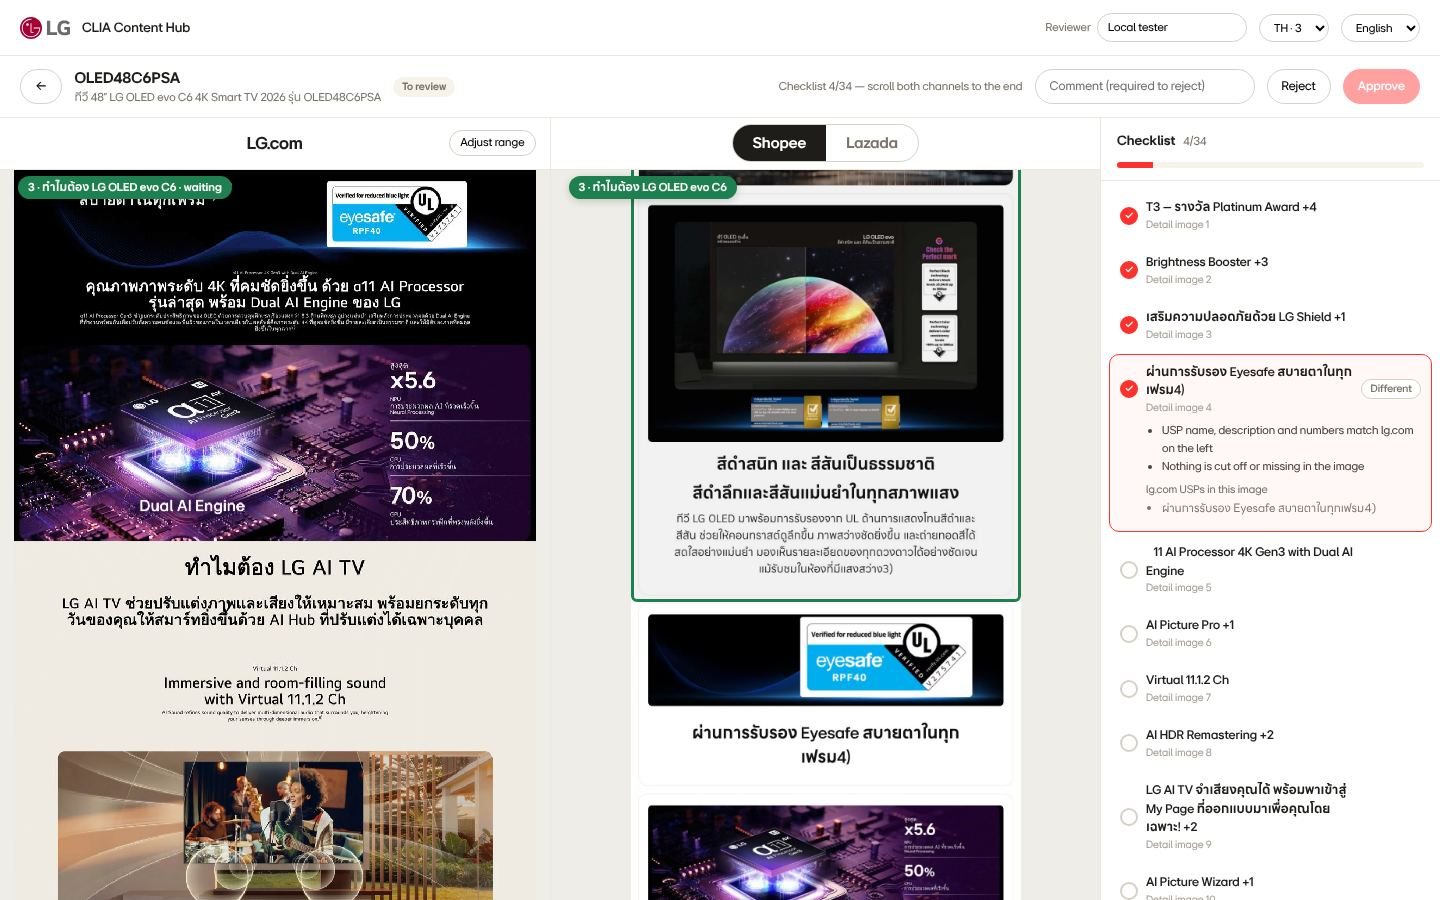
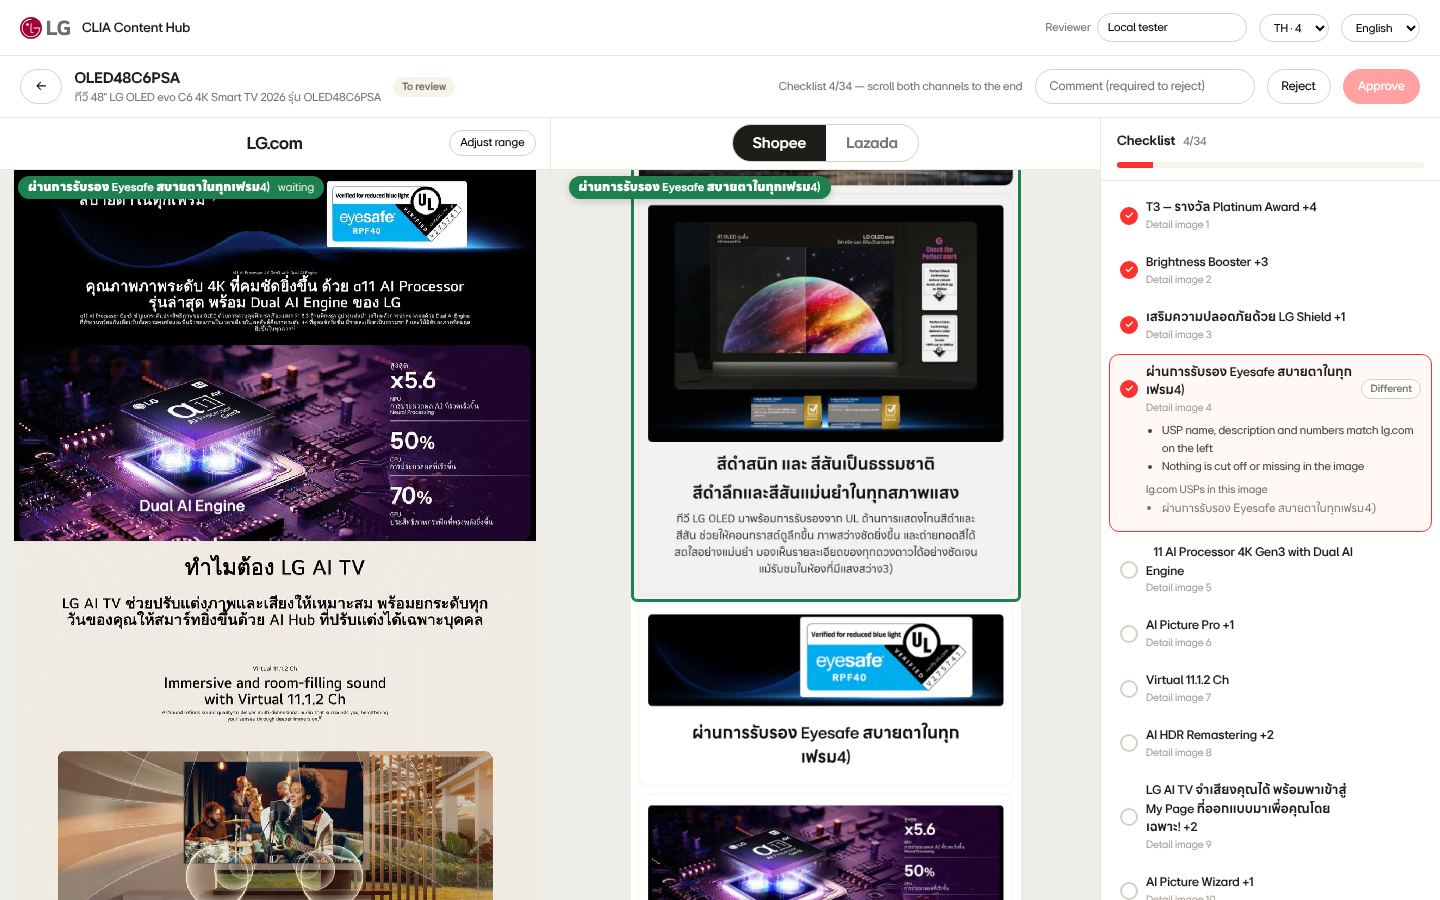
검토 화면: 같은 영역 이름표 = 체크리스트 항목 이름 그대로 · 미리 준비는 전부(캡처·이미지·요약)
- 초록 이름표에서 「섹션 n」·번호를 빼고, 오른쪽 체크리스트 항목 이름과 똑같이 (지금 항목이 그 구간 안이면 그 항목)
  기다림 · 없음은 이름 옆에 작은 글씨로
- 미리 준비 기본값: lg.com 캡처 · 상세 이미지 완성본 · PDP 요약까지 — 누르면 바로 보이게
  REVIEW_PREWARM_MODE=existing 이면 크롤 데이터와 이미 있는 요약·캡처만으로 (빈 것은 사람이 열 때 채움)
- 확인 스크립트: 양쪽 이름표가 같고 체크리스트 항목 이름과 같은지

Claude-Session: https://claude.ai/code/session_01Qc8KZ9fFX6kBVHrq9Tv6ME

Changed region(s): [[0.0, 0.1867, 0.25, 0.2489], [0.4062, 0.1867, 0.5938, 0.2489]]

diff --git a/review.js b/review.js
@@ -60,6 +60,9 @@ const CONC = 2;
 const PREWARM = process.env.REVIEW_PREWARM !== '0';
 const PREWARM_COUNTRIES = new Set(String(process.env.REVIEW_PREWARM_COUNTRIES || 'th,sg').split(',').map((x) => x.trim().toLowerCase()).filter(Boolean));
 const BG_CONC = Math.max(1, Math.min(CONC, parseInt(process.env.REVIEW_PREWARM_CONC, 10) || 1));
+// 기본은 전부 준비 — lg.com 캡처 · 상세 이미지 · PDP 요약까지 (검토 화면에서 누르면 바로 보이게, 2026-11-24 사용자 결정).
+//   REVIEW_PREWARM_MODE=existing 이면 크롤 데이터와 이미 있는 요약·캡처만으로 (AI 요약 · Firecrawl 캡처를 새로 만들지 않음 — 빈 것은 사람이 열 때 채움)
+const PREWARM_EXISTING_ONLY = process.env.REVIEW_PREWARM_MODE === 'existing';
 
 async function post(p, body, timeoutMs) {
   const r = await fetch(LOCAL() + p, { method: 'POST', headers: { 'Content-Type': 'application/json' }, body: JSON.stringify(body), signal: AbortSignal.timeout(timeoutMs) });
@@ -84,10 +87,11 @@ async function sliceManifest(hash) {
 }
 
 /** lg.com 전체 화면 캡처 — 있으면 그것, 없으면(또는 recapture) 캡처하고 기다린다 (최대 4분) */
-async function fullshot(url, recapture, step) {
+async function fullshot(url, recapture, step, existingOnly = false) {
   const q = '/api/v1/fullshot?url=' + encodeURIComponent(url);
   let st = await getJ(q);
   if (st.status === 'ready' && !recapture) return st;
+  if (existingOnly && st.status !== 'pending') return st;   // 미리 준비: 있는 캡처만 (새로 찍지 않는다)
   if (st.status !== 'pending') {
     step('fullshot');
     // recapture: 있는 캡처도 다시 찍는다 (지연 로드가 덜 찍힌 캡처 — 새 캡처가 성공해야 바뀐다)
@@ -110,7 +114,9 @@ function runPrep(input) {
   });
 }
 
-async function prepare(slug, ch, { recapture = false } = {}) {
+// existingOnly (미리 준비): 크롤 데이터와 이미 있는 것만으로 — PDP 요약(AI)·lg.com 캡처(Firecrawl)를 새로 만들지 않는다.
+//   빠진 것은 사람이 그 제품을 열 때 채운다 (화면이 force 로 다시 준비 → 아래 existingOnly=false)
+async function prepare(slug, ch, { recapture = false, existingOnly = false } = {}) {
   const key = `${slug}|${ch}`, job = jobs.get(key);
   const step = (s) => { job.step = s; };
   const sum = cr.productSummary(slug);
@@ -131,7 +137,10 @@ async function prepare(slug, ch, { recapture = false } = {}) {
   let sm = null, summaryErr = '';
   if (isTh(sum.url)) {
     step('summary');
-    sm = await post('/api/v1/pdp-summary', { url: sum.url }, 7 * 60 * 1000).catch((e) => { summaryErr = String(e.message).slice(0, 200); return null; });
+    sm = await post('/api/v1/pdp-summary', { url: sum.url, cachedOnly: existingOnly }, 7 * 60 * 1000).catch((e) => {
+      if (!(existingOnly && /no summary yet/.test(e.message))) summaryErr = String(e.message).slice(0, 200);
+      return null;
+    });
   }
   let shopeeN = slices.length, shopeeChars = 0;
   if (ch === 'shopee') {   // bulk-jobs.contentFor 와 같은 자르기: 앞 12장, 요약 + 주소가 3,000자를 넘으면 뒤에서부터 뺀다
@@ -176,12 +185,13 @@ async function prepare(slug, ch, { recapture = false } = {}) {
   step('fullshot-check');
   let fsErr = '', st = null;
   const shoot = async (re) => {
-    try { st = await fullshot(sum.url, re, step); fsErr = ''; } catch (e) { fsErr = String(e.message).slice(0, 200); }
+    try { st = await fullshot(sum.url, re, step, existingOnly && !re); fsErr = ''; } catch (e) { fsErr = String(e.message).slice(0, 200); }
+    if (st && st.status === 'none') fsErr = existingOnly ? 'not captured yet' : 'no capture';
     if (st && st.status === 'error') fsErr = String(st.error || 'capture failed').slice(0, 200);
   };
   await shoot(recapture);
   let { shotPath, a } = await analyze(st, true);
-  if (thin(a) && !recapture) {   // 덜 찍혔으면 한 번 다시 캡처하고 다시 본다
+  if (thin(a) && !recapture && !existingOnly) {   // 덜 찍혔으면 한 번 다시 캡처하고 다시 본다
     console.log(`[review] ${slug}: lg.com 캡처가 덜 찍힘 (PDP ${a.shot.bottom - a.shot.top}px / 상세 이미지 ${sliceTotal}px) → 다시 캡처`);
     await shoot(true);
     ({ shotPath, a } = await analyze(st, false));
@@ -192,6 +202,8 @@ async function prepare(slug, ch, { recapture = false } = {}) {
     slices: slices.map(({ src, w, h }) => ({ src, w, h })), images_loaded: man.images_loaded || sl.images_loaded || '',
     usps: a.usps, sliceUsps: a.sliceUsps, secs: a.secs, kind: a.kind, lead: a.lead, align: a.align || null, alignErr: a.alignErr || '',
     sum: ch === 'lazada' && sm && sm.html ? sm.html : '', sumText: ch === 'shopee' && sm && sm.text ? sm.text.trim() : '', summaryErr,
+    // 미리 준비에서 빈 것 — 화면이 제품을 열 때 채운다
+    missing: [...(isTh(sum.url) && !sm && !summaryErr ? ['summary'] : []), ...(!a.shot ? ['fullshot'] : [])],
     shopeeN, shopeeChars,
     shot: a.shot ? { key: st.key, src: `/media/fullshot/${st.key}.jpg`, bytes: fs.statSync(shotPath).size, ...a.shot } : null, shotErr: a.shot ? '' : (fsErr || 'no capture'),
   };
@@ -222,7 +234,7 @@ function enqueue(slug, ch, opts = {}, bg = false) {
   if (j && j.state === 'pending') {
     // 미리 준비 차례를 기다리던 것을 사람이 열면 → 사람 차례로 (맨 앞)
     const q = queue.findIndex((x) => x.slug === slug && x.ch === ch);
-    if (!bg && q >= 0 && queue[q].bg) { const [it] = queue.splice(q, 1); it.bg = false; it.opts = { ...it.opts, ...opts }; queue.unshift(it); j.bg = false; pump(); }
+    if (!bg && q >= 0 && queue[q].bg) { const [it] = queue.splice(q, 1); it.bg = false; it.opts = { ...it.opts, ...opts, existingOnly: false }; queue.unshift(it); j.bg = false; pump(); }
     return j;
   }
   const nj = { state: 'pending', step: 'queued', at: Date.now(), bg };
@@ -243,7 +255,7 @@ function prewarm() {
       const j = jobs.get(`${p.slug}|${ch}`);
       if (j && (j.state === 'pending' || (j.state === 'error' && Date.now() - j.at < 6 * 3600 * 1000))) continue;
       const { state } = prepState(p.slug, ch, p);
-      if (state === 'none' || state === 'stale' || state === 'error') { enqueue(p.slug, ch, {}, true); n++; }
+      if (state === 'none' || state === 'stale' || state === 'error') { enqueue(p.slug, ch, { existingOnly: PREWARM_EXISTING_ONLY }, true); n++; }
     }
   } catch (e) { console.warn('[review] 미리 준비 목록 실패', e.message); }
   if (n) console.log(`[review] 미리 준비 ${n}개 차례에 넣음 (대기 ${queue.length} · 동시 ${BG_CONC})`);
@@ -255,7 +267,8 @@ if (PREWARM) {
   setInterval(prewarm, 10 * 60 * 1000).unref();
 }
 function queueStats() {
-  return { queued: queue.length, queuedBg: queue.filter((q) => q.bg).length, running, runningBg, prewarm: PREWARM ? [...PREWARM_COUNTRIES] : [] };
+  return { queued: queue.length, queuedBg: queue.filter((q) => q.bg).length, running, runningBg, prewarm: PREWARM ? [...PREWARM_COUNTRIES] : [],
+    mode: PREWARM_EXISTING_ONLY ? 'existing' : 'full', conc: BG_CONC };
 }
 
 /** 준비 결과 + 사람이 고친 lg.com 범위 */

diff --git a/review/index.html b/review/index.html
@@ -104,6 +104,7 @@ td .m,.cb .m{font-weight:700}td .s{font-size:12px;color:var(--g500);max-width:42
 .mk .nosum{padding:12px;font-size:12px;color:#999;background:#fafafa}
 .segbox{position:absolute;pointer-events:none;border:3px solid var(--red);border-radius:6px;box-shadow:0 0 0 9999px rgba(31,29,26,.06) inset}
 .segbox.pop{animation:segpop .35s ease-out}@keyframes segpop{from{border-width:6px}to{border-width:3px}}
+.segtag i{font-style:normal;font-weight:400;opacity:.85;margin-left:8px}
 .segtag{position:absolute;left:18px;max-width:calc(100% - 36px);pointer-events:none;color:#fff;font-size:12px;font-weight:700;padding:3px 10px;border-radius:999px;white-space:nowrap;overflow:hidden;text-overflow:ellipsis;box-shadow:0 2px 8px rgba(0,0,0,.18);z-index:3}
 .prep{position:absolute;inset:0;display:flex;align-items:center;justify-content:center;background:#F8F7F5;z-index:5}.prep[hidden]{display:none}
 .prep .box{background:#fff;border:1px solid var(--line);border-radius:14px;padding:22px 26px;min-width:380px;max-width:560px}
@@ -400,6 +401,8 @@ async function fetchItems(start){
   if(!C)return;const slug=C.p.slug;clearTimeout(itemTimer);
   await Promise.all(CHS.map(async ch=>{
     try{let j=await api(`/api/v1/review/item/${encodeURIComponent(slug)}?channel=${ch}`);
+      // 미리 준비가 비워 둔 것(PDP 요약 · lg.com 캡처)이 있으면 이 제품을 열 때 채운다
+      if(start&&j.state==='ready'&&j.data&&(j.data.missing||[]).length){await api(`/api/v1/review/item/${encodeURIComponent(slug)}/prepare`,{channel:ch,force:true});j={...j,state:'pending',job:{step:'queued'}};}
       if(start&&(j.state==='none'||(j.state==='pending'&&j.job&&j.job.bg))){   // 미리 준비 차례를 기다리던 것은 사람 차례(맨 앞)로
         await api(`/api/v1/review/item/${encodeURIComponent(slug)}/prepare`,{channel:ch});j={...j,state:'pending',job:{step:'queued'}};}
       if(!C||C.p.slug!==slug)return;
@@ -546,23 +549,33 @@ function update(){
   $('mvR').style.transform=`translate3d(0,${-r}px,0)`;$('mvL').style.transform=`translate3d(0,${-l}px,0)`;
   const doneL=tt>=g.dl||posL>=G.lmax,doneR=tt>=g.dr||posR>=G.rmax;
   for(const im of G.imgs)if(!im.e.src&&im.top<r+G.vh*2.5)im.e.src=im.e.dataset.src;   // 보이는 근처만 읽기
+  track(r);   // 지금 체크리스트 항목을 먼저 정해 두고 → 이름표가 그 항목 이름을 쓴다
   segMark(g,l,r,doneL&&!doneR,doneR&&!doneL);
-  track(r);
 }
 // 같은 영역 표시: 지금 구간을 양쪽에 같은 색 테두리 + 같은 이름표(번호 · 섹션 제목)로
 let lastSeg=-1;
 function segMark(g,l,r,waitL,waitR){
   if(g.n!==lastSeg){lastSeg=g.n;['segL','segR'].forEach(id=>{const e=$(id);e.classList.remove('pop');void e.offsetWidth;e.classList.add('pop');});}
-  const col=SEG_COLOR,num=g.n+1;
+  const col=SEG_COLOR,label=segLabel(g);
   [['L',g.l-l,g.dl],['R',g.r-r,g.dr]].forEach(([k,y,h])=>{
     const box=$('seg'+k),tag=$('segTag'+k);
     box.hidden=h<2;box.style.borderColor=col;box.style.top=y+'px';box.style.height=h+'px';
     tag.style.background=col;tag.style.top=Math.max(6,Math.min(y+6,G.vh-30))+'px';
-    // 기다리는 쪽은 이름표에 「기다리는 중」 (따로 배지를 두지 않는다)
-    tag.textContent=h<2?`${num} · ${g.label} — ${t(k==='L'?'segNoneL':'segNoneR')}`:`${num} · ${g.label}`+((k==='L'?waitL:waitR)?` · ${t('waitShort')}`:'');
+    // 이름표 = 오른쪽 체크리스트 항목 이름 그대로. 기다리는 쪽 · 없는 쪽은 옆에 작은 글씨로 (이름 글자는 그대로)
+    const note=h<2?t(k==='L'?'segNoneL':'segNoneR'):(k==='L'?waitL:waitR)?t('waitShort'):'';
+    tag.innerHTML=`<b>${esc(label)}</b>${note?`<i>${esc(note)}</i>`:''}`;
   });
   const mkR=$('mvR').querySelector('.mk');$('segR').style.left=mkR.offsetLeft+'px';$('segR').style.width=mkR.clientWidth+'px';
   const cr=$('mvL').querySelector('.crop');if(cr){$('segL').style.left=cr.offsetLeft+'px';$('segL').style.width=cr.clientWidth+'px';}
+}
+// 같은 영역 이름표: 오른쪽 체크리스트 항목 이름과 똑같이 — 지금 항목이 이 구간 안이면 그 항목, 아니면 구간이 시작하는 자리의 항목
+function segLabel(g){
+  const list=items(C.ch),inSeg=it=>{const y=G.anchors[it.anchor];return y!=null&&y>=g.r-8&&y<g.r+Math.max(g.dr,1);};
+  const cur=list.find(it=>it.id===curId);
+  if(cur&&inSeg(cur))return cur.title;
+  const first=list.find(inSeg);if(first)return first.title;
+  let last=null;for(const it of list){const y=G.anchors[it.anchor];if(y!=null&&y<=g.r)last=it;}
+  return (last||list[0]||{title:g.label}).title;
 }
 // 체크리스트: 지금 보는 항목(화면 위에서 35% 선을 지난 마지막 항목), 화면 55% 선을 지난 항목은 「봤음」
 let curId=null;

diff --git a/docs/clia-pdp-review/production/review-check.js b/docs/clia-pdp-review/production/review-check.js
@@ -44,14 +44,16 @@ if (/railway\.app|lgecreativehub/i.test(base)) { console.error('운영 주소에
     }
     // 이름표: 지금 구간의 이름이 양쪽에 같게
     sc.scrollTop = G.segs[Math.min(2, G.segs.length - 1)].S + 5; update();
-    const tags = [$('segTagL').textContent, $('segTagR').textContent];
+    const tags = [$('segTagL').querySelector('b').textContent, $('segTagR').querySelector('b').textContent];
+    const inList = items(C.ch).some((it) => it.title === tags[1]);
     const im = [...document.querySelectorAll('#mvR img.sl')].filter((e) => e.complete && e.naturalWidth);
     const distorted = im.filter((e) => Math.abs(e.clientHeight / e.clientWidth - e.naturalHeight / e.naturalWidth) > 0.01).length;
-    return { bad, distorted, loaded: im.length, segs: G.segs.length, aligned: G.aligned, tags };
+    return { bad, distorted, loaded: im.length, segs: G.segs.length, aligned: G.aligned, tags, inList };
   });
   console.log('     segments', r.segs, 'anchors', r.aligned, 'tags', JSON.stringify(r.tags));
   check(r.segs >= 3 && r.aligned >= 1, `same-area anchors used (${r.aligned} anchors, ${r.segs} segments)`);
-  check(r.tags[0].split(' · ')[0] === r.tags[1].split(' · ')[0], 'same segment number on both sides');
+  check(r.tags[0] === r.tags[1], 'same area label on both sides');
+  check(r.inList, 'area label is exactly a checklist item name');
   check(!r.bad.length, `same-area scroll rule (${r.bad.length} mismatches ${r.bad.slice(0, 5).join(',')})`);
   check(!r.distorted, `slice aspect ratio (${r.distorted} distorted of ${r.loaded} loaded)`);
   check(await page.locator('#bOk').isDisabled(), 'approve locked before checklist');

diff --git a/docs/clia-pdp-review/production/README.md b/docs/clia-pdp-review/production/README.md
@@ -35,11 +35,14 @@
 ### 미리 준비 (2026-11-24)
 
 - **무엇을:** 서버가 Shopee/Lazada 법인(기본 `th,sg`) 제품 가운데 준비 안 됨 · 내용 바뀜 · 실패한 채널을 차례로 미리 준비합니다. 최근 크롤한 제품부터 하고, 10분마다 다시 훑어 새로 크롤했거나 편집본을 저장한 제품을 넣습니다.
+- **전부 준비:** lg.com 전체 캡처, Shopee/Lazada 상세 이미지 완성본, PDP 요약까지 미리 만들어 둡니다. 검토 화면에서 누르면 바로 보입니다.
+  - `REVIEW_PREWARM_MODE=existing`이면 크롤 데이터와 이미 있는 요약·캡처만 씁니다(AI 요약·Firecrawl 캡처를 새로 만들지 않음). 빈 것은 사람이 그 제품을 열 때 채웁니다.
 - **사람 우선:** 사람이 제품을 열면 그 제품이 차례의 맨 앞으로 갑니다. 미리 준비는 한 번에 1개만 돌려서 빌더·벌크 사용자를 느리게 하지 않습니다.
 - **설정:**
   - `REVIEW_PREWARM=0`: 끔
   - `REVIEW_PREWARM_COUNTRIES`: 법인 (기본 `th,sg`)
   - `REVIEW_PREWARM_CONC`: 동시에 돌리는 수 (기본 1, 최대 2)
+  - `REVIEW_PREWARM_MODE`: `existing`이면 있는 것만으로
 - **실패한 것:** 6시간 뒤에 다시 시도합니다.
 - **두 채널이 같은 이미지일 때:** 두 번째 채널은 분석(USP · 같은 영역)을 다시 하지 않고 그대로 씁니다.
 - **덜 찍힌 lg.com 캡처:** 다음 중 하나면 한 번 다시 캡처합니다.
